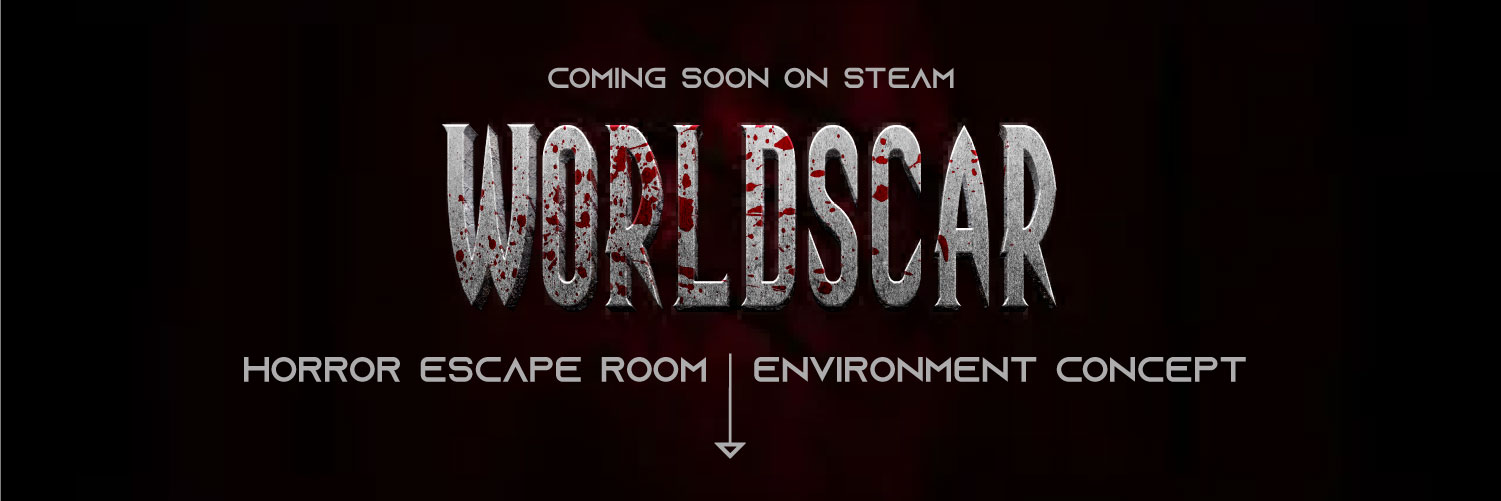
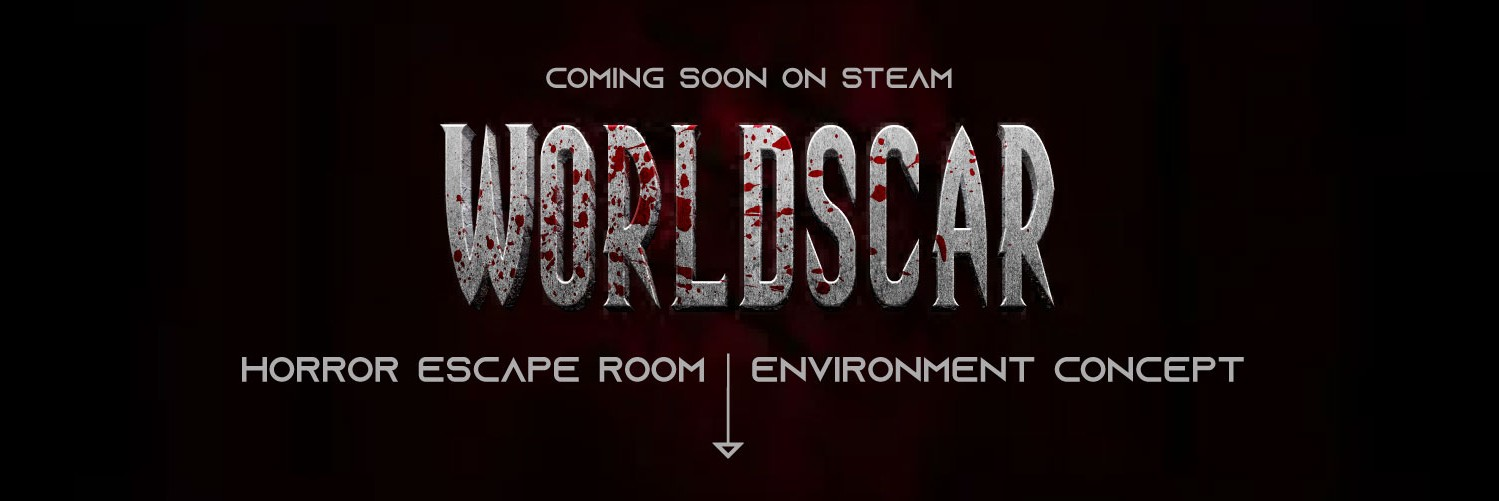
saving

diff --git a/index.html b/index.html
@@ -488,7 +488,34 @@
 		   actually covers the pinned slide. */
 		.hl-stack-tail { height: 100vh; height: 100dvh; pointer-events: none; }
 		#main { position: relative; z-index: 2; margin-top: -100vh; margin-top: -100dvh; background: #0b0b0b; }
-		.hl-slide-bg { display: none; }
+		/* Two-column game slide: LEFT copy stays exactly as it was; on the RIGHT is a game CARD
+		   built from the assets already on disk — the 3:1 banner up top, then a footer with the
+		   game's Logo.png, name and tag. Scoped with :has to the game slides only. */
+		/* Mirror the intro slide's two-column grid (same 1.3fr/1fr columns, gap and side
+		   padding) so the card's left & right edges line up EXACTLY with the intro's
+		   collaboration cards. The copy sits in column 1, the card in column 2. */
+		.hl-slide:has(> .hl-slide-bg) { display: grid; grid-template-columns: minmax(0, 1.3fr) minmax(0, 1fr); grid-template-rows: 1fr; gap: clamp(1.5rem, 3.5vw, 6rem); align-items: start; padding-left: calc(var(--sb-w) + var(--hero-gap)); padding-right: calc(var(--sb-right) + var(--hero-gap)); }
+		.hl-slide:has(> .hl-slide-bg) .hl-slide-content { grid-column: 1; grid-row: 1; align-self: start; padding-left: 0; padding-right: 0; min-width: 0; }
+		/* Card frame — matched to the intro slide's collaboration cards (.intro2-logo):
+		   flat translucent-white fill, hairline border, 14px radius, red hover lift. */
+		.hl-slide-bg { grid-column: 2; align-self: end; margin-bottom: clamp(2.5rem, 8vh, 6rem); position: relative; z-index: 2; display: flex; flex-direction: column; background: rgba(255,255,255,0.03); border: 1px solid rgba(255,255,255,0.08); border-radius: 14px; overflow: hidden; transition: border-color 0.3s ease, background 0.3s ease, transform 0.3s ease; width: 50vw; right: 13.3rem;}
+		.hl-slide-bg:hover { border-color: rgba(238,43,43,0.5); background: rgba(255,255,255,0.05); transform: translateY(-3px); }
+		/* Banner (true 3:1 ratio — no crop for 1500×500 art) */
+		.hl-gc-banner { width: 100%; aspect-ratio: 3 / 1; background-size: cover; background-position: center; background-repeat: no-repeat; }
+		/* Footer: logo + name + tag */
+		.hl-gc-foot { display: flex; align-items: center; gap: 0.85rem; padding: 0.95rem 1.15rem 1.05rem; }
+		.hl-gc-logo { width: 46px; height: 46px; object-fit: contain; flex: none; border-radius: 9px; background: rgba(255,255,255,0.04); }
+		.hl-gc-meta { display: flex; flex-direction: column; gap: 0.3rem; min-width: 0; }
+		.hl-gc-name { font-family:'FSP DEMO - PODIUM Sharp 4.11','Chakra Petch',sans-serif; text-transform: uppercase; color:#fff; font-size: 1.12rem; line-height: 1; letter-spacing: 0.01em; }
+		.hl-gc-sub { font-family:'Inter',system-ui,sans-serif; color:#ee2b2b; text-transform: uppercase; letter-spacing: 0.16em; font-size: 0.6rem; }
+		.hl-gc-tag { font-family:'Inter',system-ui,sans-serif; color: rgba(255,255,255,0.5); font-size: 0.58rem; letter-spacing: 0.14em; text-transform: uppercase; white-space: nowrap; overflow: hidden; text-overflow: ellipsis; }
+		/* Not enough room beside the copy on smaller screens — drop the card and restore the
+		   original single-column slide (copy reflows full width with its normal padding). */
+		@media (max-width: 1024px) {
+			.hl-slide:has(> .hl-slide-bg) { display: flex; padding-left: 0; padding-right: 0; }
+			.hl-slide:has(> .hl-slide-bg) .hl-slide-content { padding-left: calc(var(--sb-w) + var(--hero-gap)); padding-right: 6vw; }
+			.hl-slide-bg { display: none; }
+		}
 		.hl-slide::after { content: ''; position: absolute; inset: 0; z-index: 1; pointer-events: none; background: linear-gradient(0deg, rgba(238,43,43,0.08), transparent 60%); }
 		.hl-slide-content, .hl-cobweb-inner { position: relative; z-index: 2; width: 100%; max-width: 60rem; padding: clamp(5rem,10vh,7rem) 6vw clamp(5rem,10vh,7rem) calc(var(--sb-w) + var(--hero-gap)); }
 		.hl-slide-content { max-width: 48rem; }
@@ -1682,6 +1709,36 @@
 				_tail.setAttribute('aria-hidden', 'true');
 				wrap.appendChild(_tail);
 			}
+			// Build the right-side game card from assets already on disk: the slide's banner
+			// (from .hl-slide-bg's inline background) + the game's Logo.png, name and tag.
+			slides.forEach(function (slide) {
+				var bg = slide.querySelector(':scope > .hl-slide-bg');
+				if (!bg || bg.getAttribute('data-carded')) return;
+				var m = (bg.style.backgroundImage || '').match(/url\(["']?(.*?)["']?\)/);
+				if (!m) return;
+				var src = m[1];
+				var folder = src.split('/').slice(0, 2).join('/');   // images/<Game>
+				var name = bg.getAttribute('aria-label') || '';
+				var content = slide.querySelector('.hl-slide-content');
+				var subEl = content && content.querySelector('.hl-slide-sub');
+				var tagEl = content && content.querySelector('.hl-tag');
+				var sub = subEl ? subEl.textContent.trim() : '';
+				var tag = tagEl ? tagEl.textContent.trim() : '';
+				bg.style.backgroundImage = '';
+				bg.removeAttribute('role');
+				bg.removeAttribute('aria-label');
+				bg.setAttribute('data-carded', '1');
+				bg.innerHTML =
+					'<div class="hl-gc-banner" style="background-image:url(\'' + src + '\')"></div>' +
+					'<div class="hl-gc-foot">' +
+						'<img class="hl-gc-logo" src="' + folder + '/Logo.png" alt="" loading="lazy" onerror="this.style.display=\'none\'">' +
+						'<div class="hl-gc-meta">' +
+							'<span class="hl-gc-name">' + name + '</span>' +
+							(sub ? '<span class="hl-gc-sub">' + sub + '</span>' : '') +
+							(tag ? '<span class="hl-gc-tag">' + tag + '</span>' : '') +
+						'</div>' +
+					'</div>';
+			});
 			if (overlays) {
 				var so = new IntersectionObserver(function (entries) {
 					entries.forEach(function (e) { overlays.classList.toggle('is-active', e.isIntersecting); });